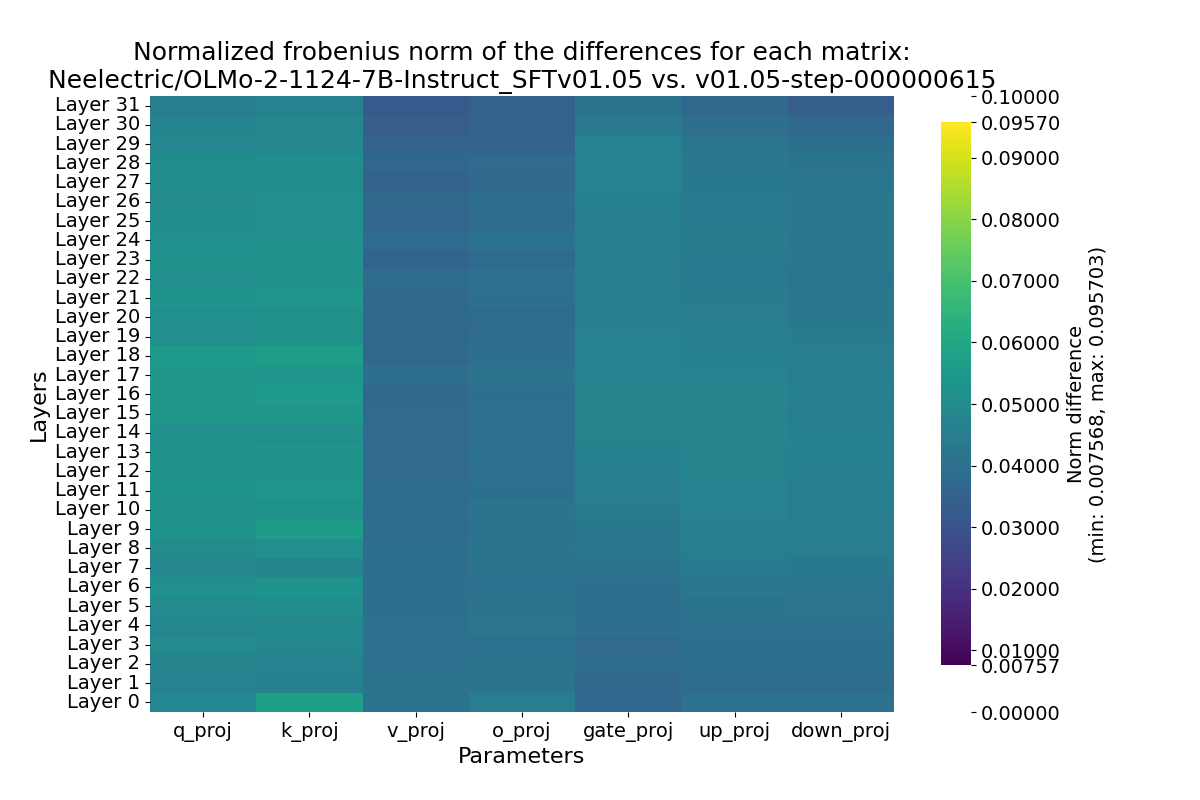
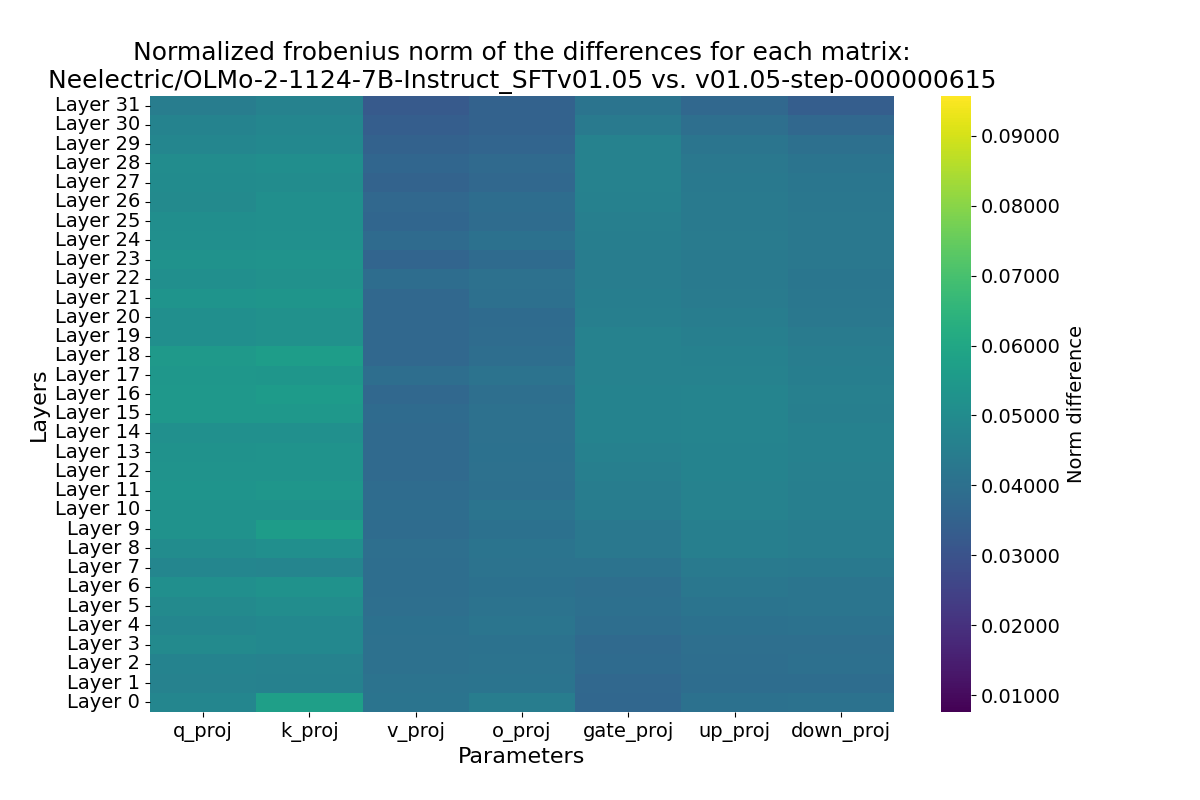
new gifs!

diff --git a/experiments/ckpt_weight_anlys.py b/experiments/ckpt_weight_anlys.py
@@ -197,11 +197,7 @@ def compare_base_and_ckpt(base_model_id, ft_model_id, revision):
     ckpt_param = ckpt_params[name]
     name_list = name.split(".")
     if "layers" in name_list:
-      # print(name)
-      # print(base_param.shape)
-      # print(base_param)
-      # print(ckpt_param)
-      
+            
       frob_norm_base = torch.linalg.norm(base_param)
       frob_norm_diff = torch.linalg.norm(ckpt_param - base_param)
       normed_frob_norm_diff = frob_norm_diff / frob_norm_base if frob_norm_base > 0 else float('inf')
@@ -262,17 +258,17 @@ def plot_results(results_dict, ft_model_id, revision, vmin, vmax):
   
   # Get colorbar and modify its appearance
   cbar = ax.collections[0].colorbar
-  cbar.ax.set_ylabel('Norm difference\n(min: {:.6f}, max: {:.6f})'.format(vmin, vmax), 
+  cbar.ax.set_ylabel('Norm difference',
                     fontsize=colorbar_size)
   cbar.ax.tick_params(labelsize=colorbar_size)
   
-  # Add explicit min/max ticks to colorbar
-  ticks = list(cbar.get_ticks())
-  if vmin not in ticks:
-      ticks = [vmin] + ticks
-  if vmax not in ticks:
-      ticks = ticks + [vmax]
-  cbar.set_ticks(ticks)
+  # # Add explicit min/max ticks to colorbar
+  # ticks = list(cbar.get_ticks())
+  # if vmin not in ticks:
+  #     ticks = [vmin] + ticks
+  # if vmax not in ticks:
+  #     ticks = ticks + [vmax]
+  # cbar.set_ticks(ticks)
   
   ax.invert_yaxis()  # this should layer 0 is at the bottom?
   return fig
@@ -321,7 +317,7 @@ def main():
     
   # lets find the global mins and maxes to plot on the same colourplot scales
   global_min = 99999
-  global_max = -9999
+  global_max = -99999
   for revision in revisions:
     for key, value in results_dicts[revision].items():
       matrix_max = max(value)
@@ -350,7 +346,7 @@ def main():
   import imageio.v2 as imageio
   images = [imageio.imread(png_path) for png_path in png_paths]
   gif_path = f"{gif_dir}/training_dynamics.gif"
-  imageio.mimsave(gif_path, images, duration=0.1, loop=0)
+  imageio.mimsave(gif_path, images, fps=5, loop=0)
   print(f"GIF saved to {gif_path}")
   
   # # Optionally, clean up the PNG files
